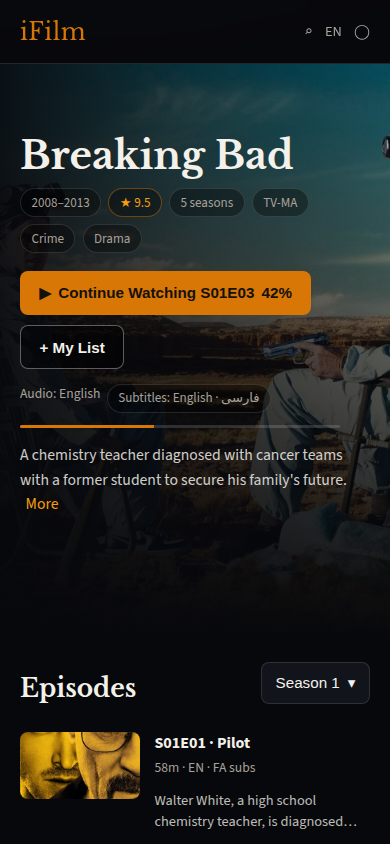
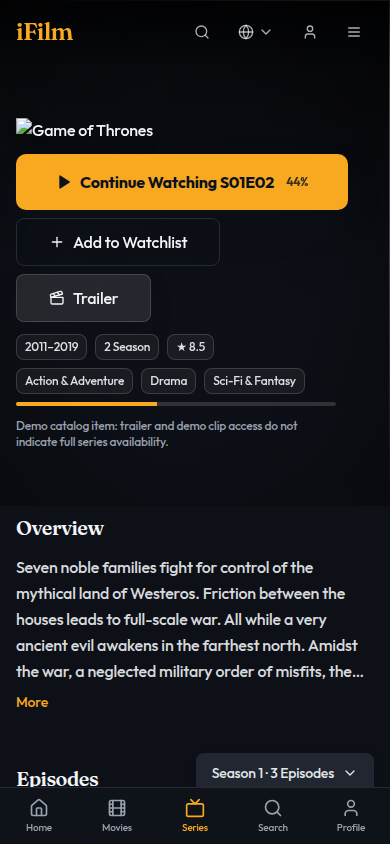
docs: add G2b Ready report and visual QA screenshots
Also resolve Continue CTA from watch history when the CW rail is
capped so series resume still surfaces on detail.

diff --git a/app/frontend/src/lib/__tests__/seriesDetailPlayback.test.ts b/app/frontend/src/lib/__tests__/seriesDetailPlayback.test.ts
@@ -75,6 +75,27 @@ describe('seriesDetailPlayback', () => {
     }
   });
 
+  it('resolves continue from history when CW rail omits the series', () => {
+    const catalog = [ep(20, 1, 2)];
+    const cta = resolveSeriesHeroCta({
+      seriesId: 4,
+      catalogEpisodes: catalog,
+      continueWatching: [],
+      watchHistory: [
+        progress({
+          episode_id: 20,
+          series_id: 4,
+          season_number: 1,
+          episode_number: 2,
+          completed: false,
+          progress_percent: 44,
+        }),
+      ],
+    });
+    expect(cta.kind).toBe('continue');
+    if (cta.kind === 'continue') expect(cta.code).toBe('S01E02');
+  });
+
   it('resolves next episode after completed finale', () => {
     const catalog = [ep(1, 1, 10), ep(2, 2, 1)];
     const cta = resolveSeriesHeroCta({

diff --git a/app/frontend/src/lib/seriesDetailPlayback.ts b/app/frontend/src/lib/seriesDetailPlayback.ts
@@ -94,7 +94,10 @@ export function resolveSeriesHeroCta<T extends SeriesEpisodeLike>(opts: {
   const bySeries = (row: WatchProgressDto) =>
     row.content_type === 'episode' && row.series_id === opts.seriesId;
 
-  const active = opts.continueWatching.find((row) => bySeries(row) && !row.completed && row.episode_id);
+  // CW rails are capped; incomplete progress may only appear in history.
+  const active =
+    opts.continueWatching.find((row) => bySeries(row) && !row.completed && row.episode_id) ||
+    opts.watchHistory.find((row) => bySeries(row) && !row.completed && row.episode_id);
   if (active?.episode_id) {
     const episode =
       ordered.find((ep) => ep.id === active.episode_id) ??

diff --git a/docs/design/G2B_REPORT.md b/docs/design/G2B_REPORT.md
@@ -1,0 +1,159 @@
+# G2b — Series Detail Experience V2 Report
+
+**Status:** READY for human visual approval (Draft PR)  
+**PR:** https://github.com/nimroozy/ifilm2026/pull/75  
+**Branch:** `cursor/g2b-series-detail-impl-4873`  
+**Head SHA:** _(see latest commit on branch)_  
+**Baseline:** production `v1.16.0`  
+**Planning PR (unchanged):** #74  
+
+**Do not merge or deploy** until human approval.
+
+---
+
+## Product decisions implemented
+
+| # | Decision | Result |
+|---|----------|--------|
+| 1 | Series trailer **button-only** (no 6s autoplay) | `data-trailer-policy="button-only"`; unit test asserts no timed transition; G2a movie 6s behavior unchanged |
+| 2 | Exclusive primary CTA | Continue → Next → Watch Again → Play (one only) |
+| 3 | Next episode by season/episode order | Unit-tested incl. S01E10 → S02E01; skips unplayable |
+| 4 | Credits detail-only | `series_out(..., include_credits=True)` on public/admin detail only |
+
+---
+
+## API changes
+
+| Change | Detail |
+|--------|--------|
+| `SeriesOut.credits` / `credits_synced_at` | Additive fields; default empty |
+| `series_out(include_credits=False)` | Credits loaded only when `True` |
+| `GET /api/series/{id}` | Passes `include_credits=True` |
+| Admin series get/create/update | `include_credits=True` |
+| List/card/home/search callers | Remain without credits queries |
+
+**No migration** — uses existing `series_cast_credits`.
+
+### Credit serialization strategy
+
+Opt-in flag on `series_out` (preferred over a new DTO type) so browse/list/search that still call `series_out` do not pay cast cost. Card path `series_card_out` explicitly sets `credits=[]`.
+
+### Query-count impact
+
+| Surface | Result |
+|---------|--------|
+| `GET /api/series` browse | Asserts **no** `series_cast_credits` in SQL (`test_series_list_card_query_ceiling`) |
+| `GET /api/series/{id}` detail | Single credits list query (`test_series_detail_credits`) |
+| Episode season fetch | Pre-existing per-episode playability/track probes remain; G2b reduces blast radius by **season-scoped** fetch only |
+
+---
+
+## Frontend architecture
+
+- New `SeriesDetailView.tsx` (cinematic hero, episodes, cast, recs)
+- Thin `SeriesDetailsPage` loader in `Browse.tsx`
+- Season-scoped `fetchSeasonEpisodes` + in-memory cache by season
+- Shared `CastRail` / `CastCard` extracted; `MovieDetailView` imports shared rail (G2a trailer autoplay tests still pass)
+- CTA helpers in `lib/seriesDetailPlayback.ts`
+- Incomplete progress also resolved from **watch history** when CW rail is capped
+
+---
+
+## Real series used (production catalog via local UI)
+
+| Series | ID | Notes |
+|--------|----|------|
+| **Game of Thrones** | `4` | Primary QA — 2 seasons, trailer, logo, playable S01E01–E02 (demo clips), recommendations |
+| Breaking Bad | `8` | 2 seasons; fewer playable episodes / no trailer key |
+
+**Cast note:** Production DB currently has **zero** rows in `series_cast_credits` for these titles. Cast rail verified with detail payload injection matching the new API shape; after deploy, run admin TMDB credits refresh for showcase series.
+
+**Progress:** QA subscriber `qa-rec-personalized` (id 4) — incomplete progress on GoT S01E02 used for Continue CTA (~44%).
+
+---
+
+## CTA state results
+
+| State | Evidence |
+|-------|----------|
+| Continue Watching S01E02 | Live screenshot + authenticated history/CW mapping |
+| Next Episode | Unit tests (same-season + season boundary) |
+| Watch Again | Unit tests (no next playable) |
+| Play | Unit tests (no history) |
+| Exclusive CTA | Component tests |
+
+---
+
+## Season selection
+
+| Viewport | Control | Evidence |
+|----------|---------|----------|
+| Desktop | Compact select (`Season N · count`) | Screenshots |
+| Mobile | Bottom sheet | `series-mobile-390-en-season-sheet.png` |
+| Default season | Season of continue/next episode | GoT opened on Season 1 with S01E02 progress |
+
+---
+
+## Episode progress / tracks / recs / trailer
+
+- Episode rows: `S01E01` codes, thumbs, duration, description clamp, Resume/Play, thin gold progress on in-progress E02
+- Series-level tracks omit empty groups (GoT probe often empty beyond source metadata)
+- More Like This: recommendations shelf populated (series-only)
+- Trailer: secondary button → muted in-hero trailer on click; no autoplay on load
+
+---
+
+## RTL
+
+FA and PS desktop/mobile screenshots captured (`dir=rtl` chrome). Player route unchanged / LTR.
+
+---
+
+## Performance
+
+Anonymous first open (target): series + seasons + selected-season episodes + recommendations (~4).  
+Authenticated adds: CW + history + watchlist membership (no per-episode progress HTTP).
+
+---
+
+## Screenshots
+
+Under `docs/design/screenshots/g2b/` and `/opt/cursor/artifacts/g2b/`:
+
+- `series-desktop-1920-en.png`
+- `series-desktop-1440-en-continue.png`
+- `series-desktop-1440-fa.png` / `series-desktop-1440-ps.png`
+- `series-mobile-430-en.png` / `series-mobile-390-en.png`
+- `series-mobile-390-fa.png` / `series-mobile-390-ps.png`
+- `series-mobile-390-en-season-sheet.png`
+- `series-desktop-1440-en-episodes.png`
+- `series-desktop-1440-en-cast.png` (injected credits — see note)
+- `series-desktop-1440-en-recs.png`
+- `series-desktop-1440-en-trailer.png`
+
+---
+
+## Tests
+
+- Backend: `test_series_detail_credits.py`, series list query ceiling update
+- Frontend: `seriesDetailPlayback.test.ts`, `SeriesDetailHero.test.tsx`, `MovieDetailHero.test.tsx` (G2a regression)
+
+---
+
+## Remaining findings (accepted / follow-up)
+
+| Level | Finding |
+|-------|---------|
+| MED | Production `series_cast_credits` empty for showcase titles — needs admin TMDB credits sync after deploy |
+| MED | GoT S02 episodes not playable — season-boundary Next cannot be shown on this title live; covered by unit tests |
+| LOW | Season label uses `N Season` without pluralization polish |
+| LOW | Episode list still uses pre-existing per-episode playability/track SQL on the season fetch (scoped to one season) |
+| INFO | Trailer button wraps under My List on narrow hero widths — acceptable flex-wrap |
+
+No BLOCKER / HIGH found for Ready gate.
+
+---
+
+## Stop
+
+Await human visual approval. **Do not merge. Do not deploy.**
